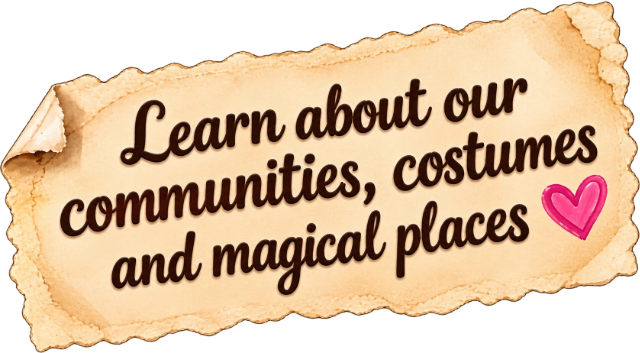
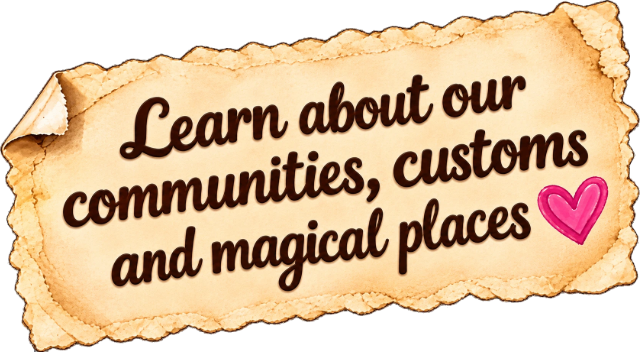
art: nota de papel en inglés (customs) en la portada

Changed region(s): [[0.0, 0.0, 1.0, 1.0], [0.7812, 0.1562, 0.8125, 0.1875]]

diff --git a/js/paginas/inicio.js b/js/paginas/inicio.js
@@ -37,9 +37,7 @@ document.getElementById("principal").innerHTML = `
         <p class="heroe__banda">${esc(t("heroBanda"))}</p>
         <p class="heroe__lema">${esc(t("heroLema"))}</p>
       </div>
-      ${idioma === "es"
-        ? `<img class="heroe__nota heroe__nota--papel" src="assets/img/nota-papel.png" alt="${esc(t("heroNota"))}" width="640" height="353">`
-        : `<p class="heroe__nota">${esc(t("heroNota"))} <span aria-hidden="true">♥</span></p>`}
+      <img class="heroe__nota heroe__nota--papel" src="assets/img/${idioma === "en" ? "nota-papel-en" : "nota-papel"}.png" alt="${esc(t("heroNota"))}" width="640" height="${idioma === "en" ? 352 : 353}">
     </div>
   </section>
 

diff --git a/docs/diseno/prueba-ajolote.html b/docs/diseno/prueba-ajolote.html
@@ -1,1 +1,1 @@
-<!doctype html><meta charset="utf-8"><body style="margin:0;background:#3F6A2A;padding:20px"><img src="../../assets/img/nota-papel.png" style="width:700px">
+<!doctype html><meta charset="utf-8"><body style="margin:0;background:#3F6A2A;padding:20px"><img src="../../assets/img/nota-papel-en.png" style="width:640px">
